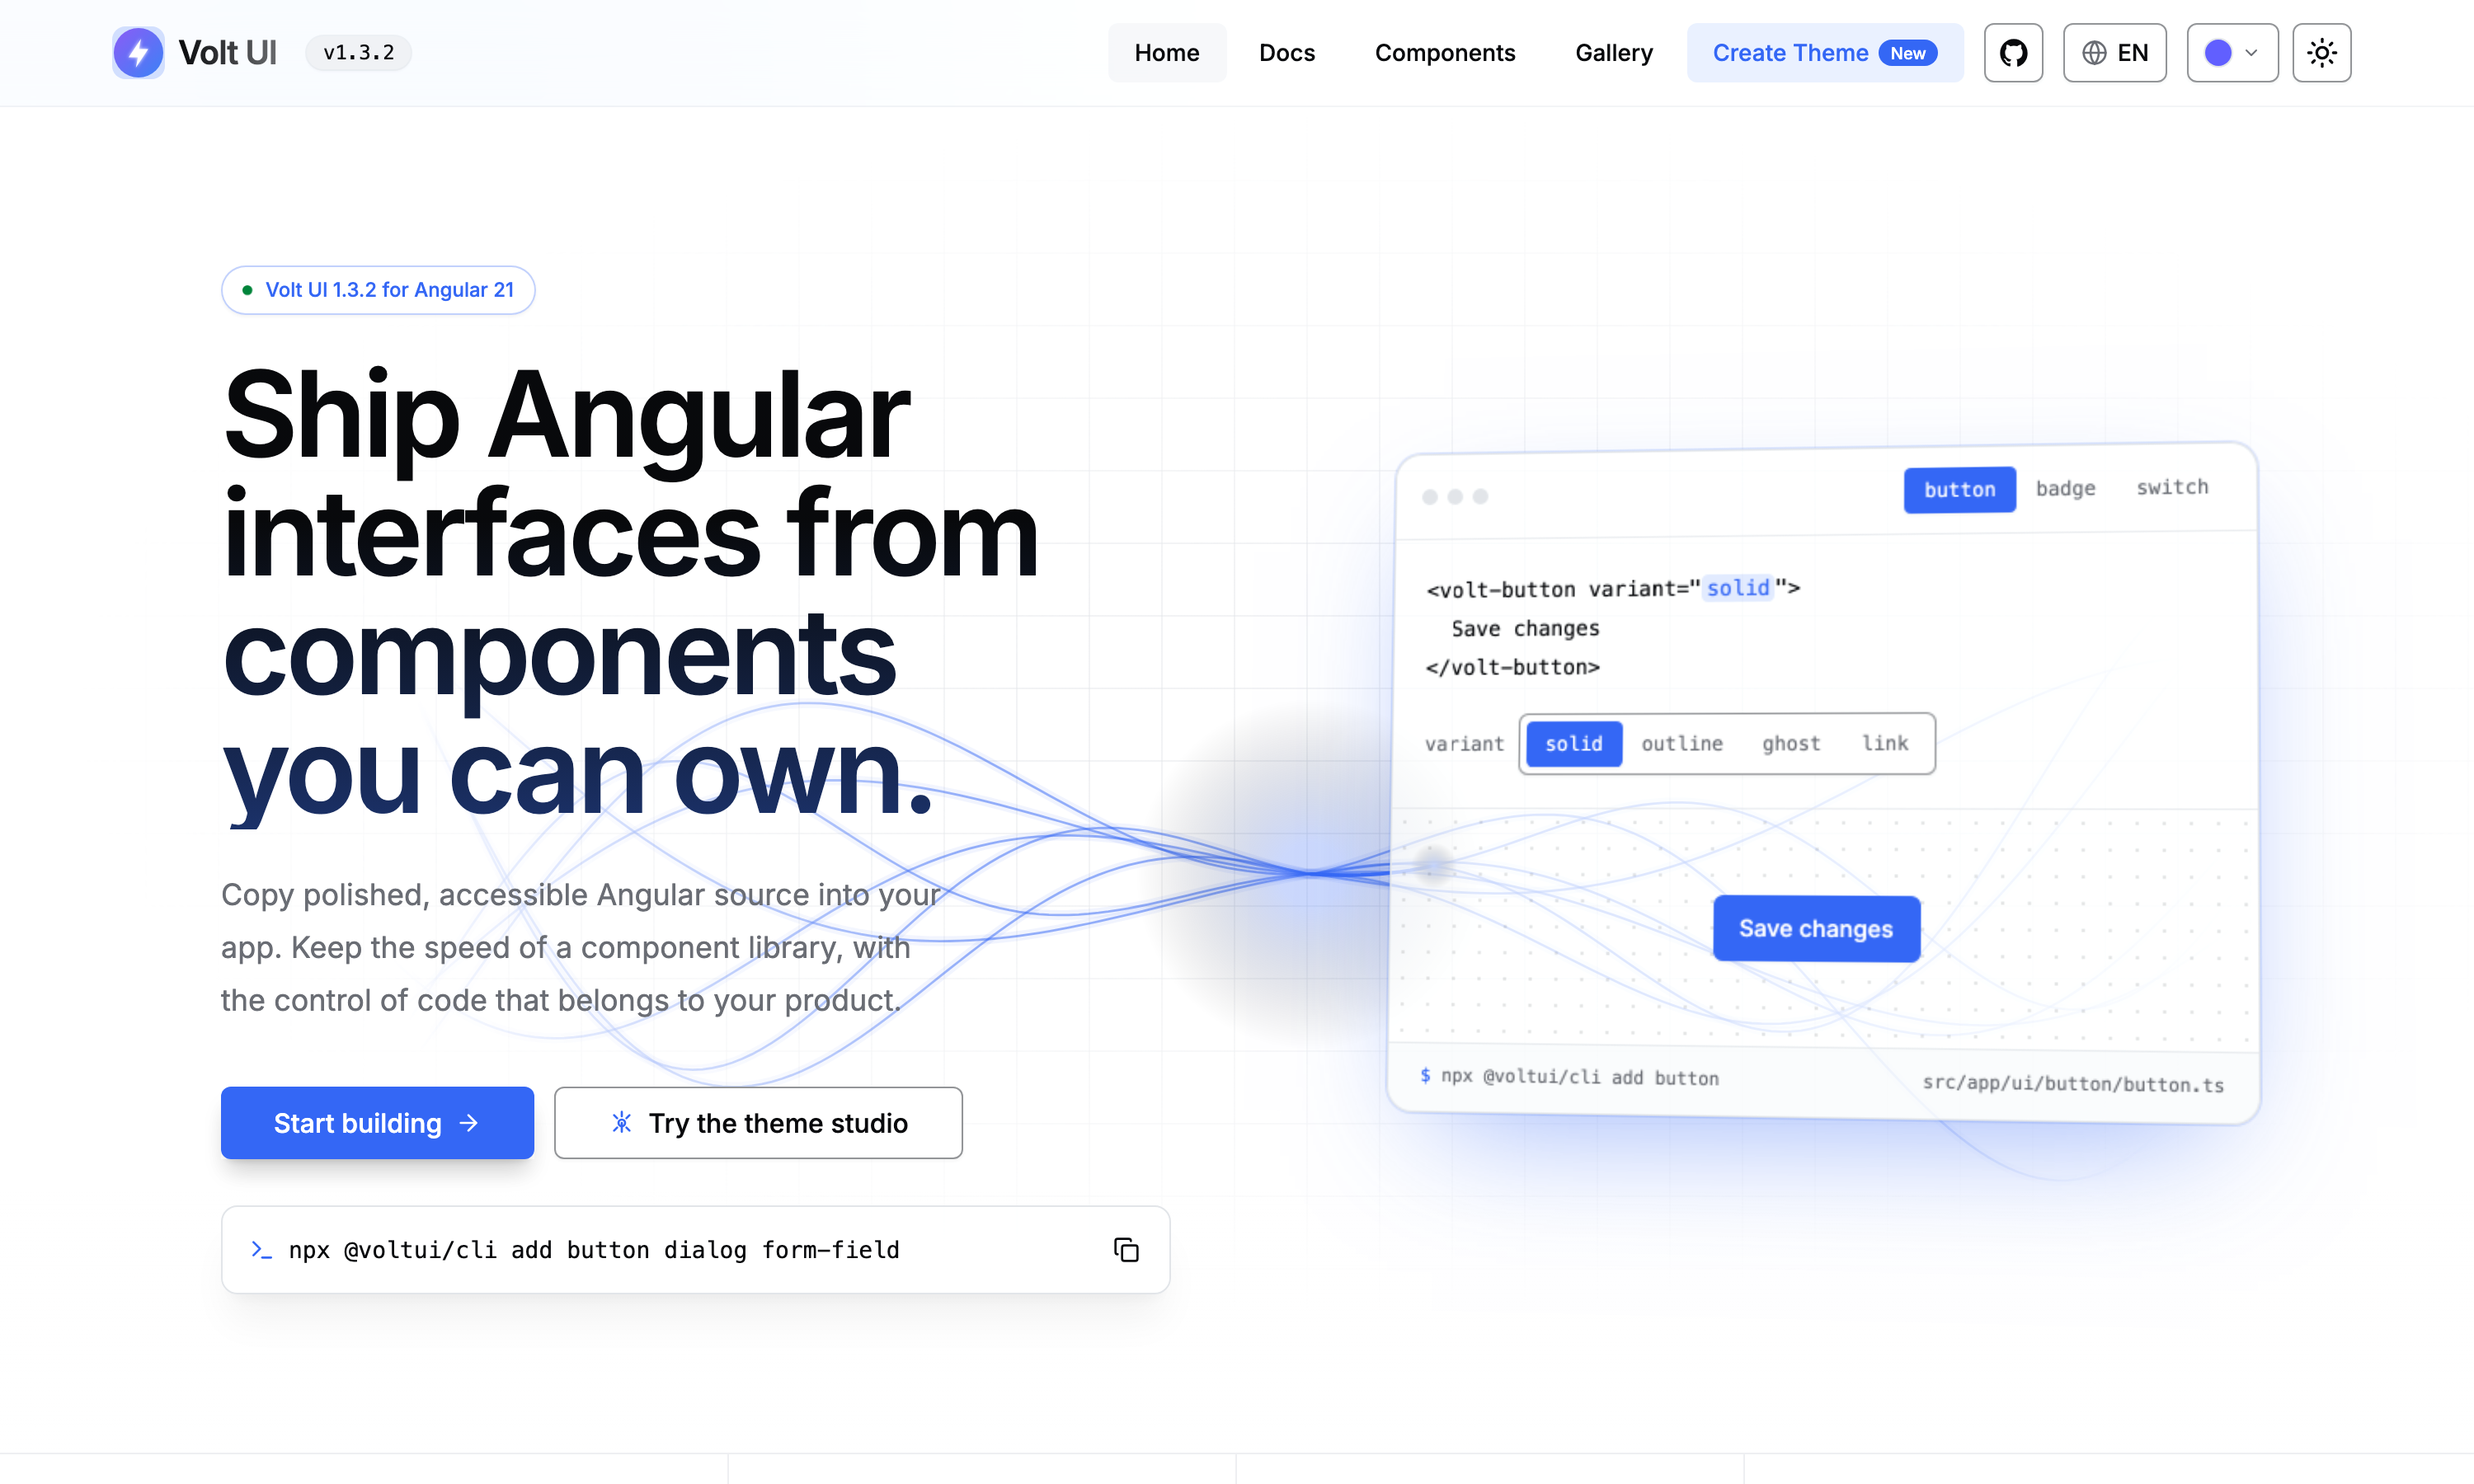
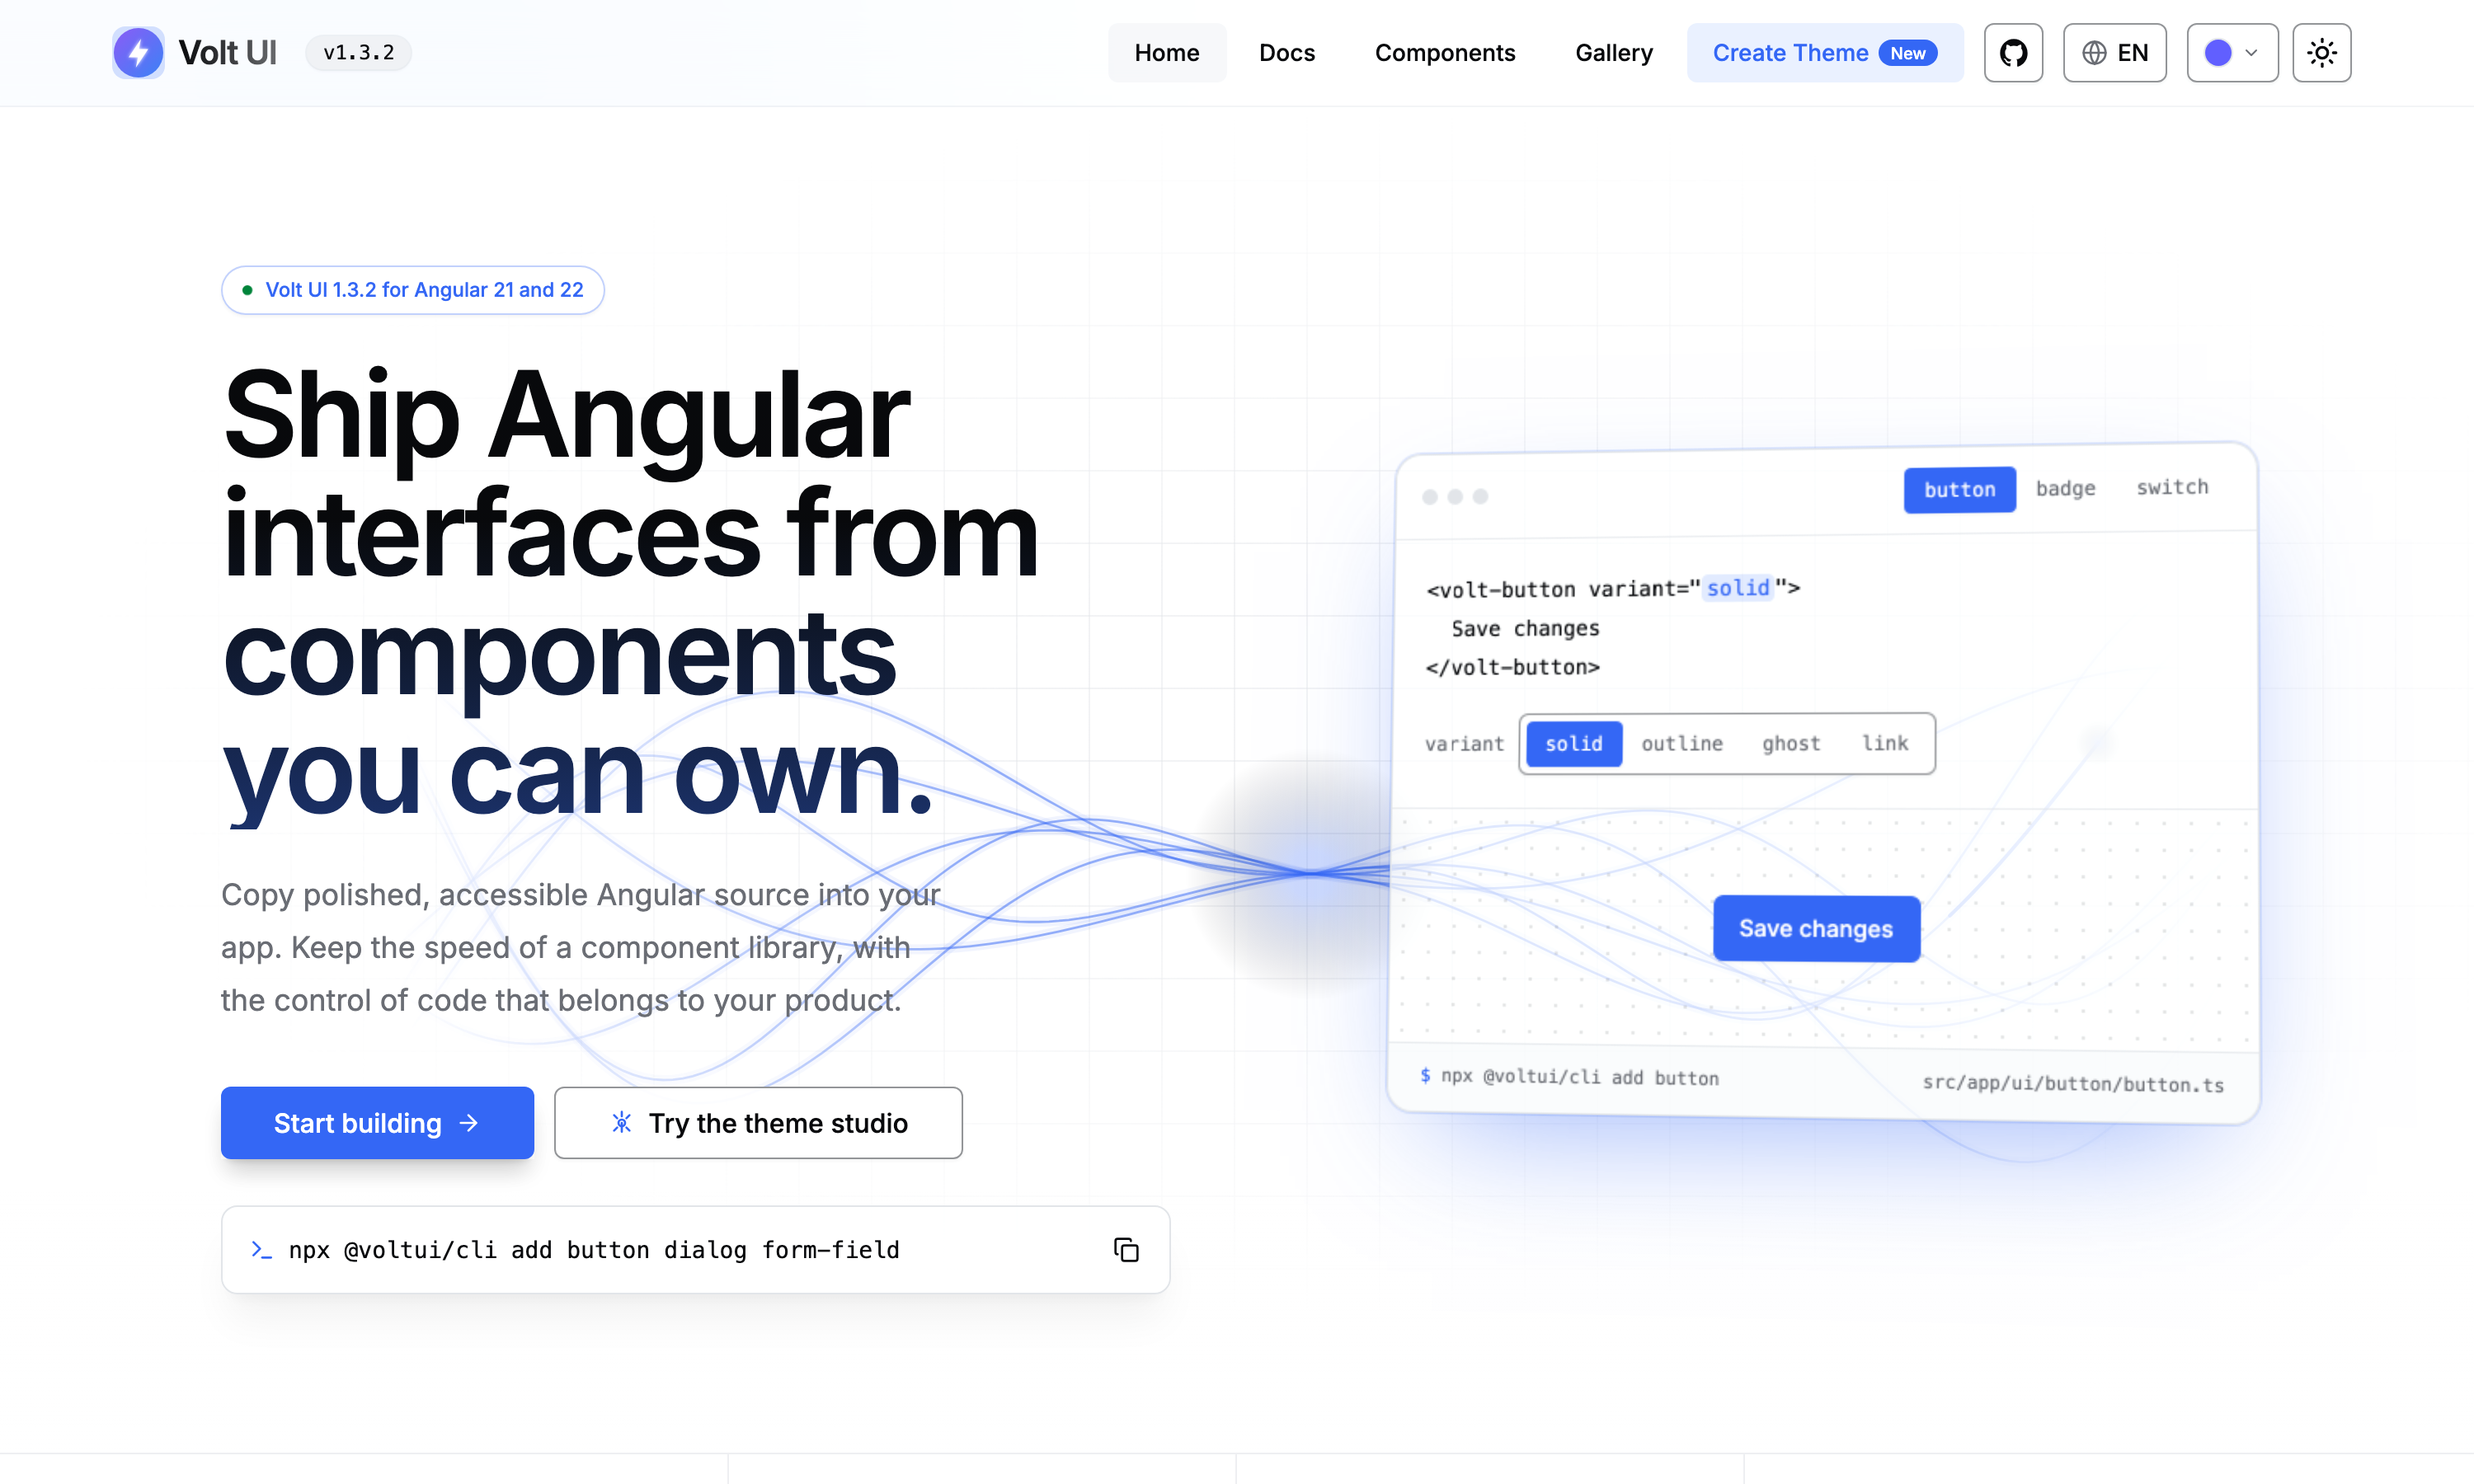
docs: correct the Angular support copy in Glossa fixtures, plan and hero screenshots

diff --git a/specs/plans/reliability-dogfood-agent-dx.md b/specs/plans/reliability-dogfood-agent-dx.md
@@ -83,10 +83,10 @@ dropdown-menu, toast, resizable, toolbar, file-upload, search, native-select, pr
 
 ## Open questions / known gaps
 
-- **Glossa copy was not changed** (the Glossa MCP could not connect in this session). The AI pages
-  (`/docs/ai-skill`, `/docs/ai-mcp`, `/docs/mcp`, `/docs/ai-prompt`) still describe "the skill" in the
-  singular and the install line without `@angular/cdk`; the Angular badge/README were updated. Those
-  keys need updating through Glossa, locale-complete (en, es, uk).
+- **Glossa copy, partly updated.** The Angular statements (`landing.hero.badge`,
+  `guide.versioningPage.angularLede`, `guide.aiSkillPage.coversStack`) were corrected in en, es and uk
+  after the PR. The AI pages (`/docs/ai-skill`, `/docs/ai-mcp`, `/docs/mcp`, `/docs/ai-prompt`) still
+  describe "the skill" in the singular and the install line lacks `@angular/cdk`.
 - **Toggle-group tab stop** is its first item, not the pressed one (APG radio pattern). Needs a
   roving-focus initial-item seam; not changed.
 - **Popover offset** is 4 px, not the documented 8 px (only tooltip's defaults were corrected).
